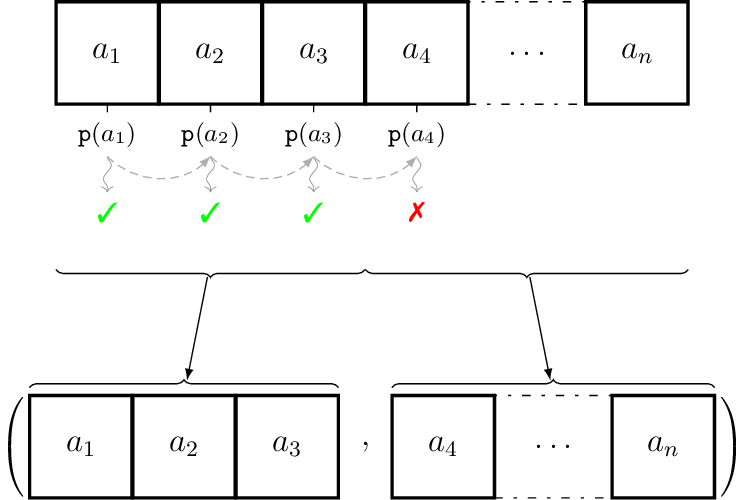
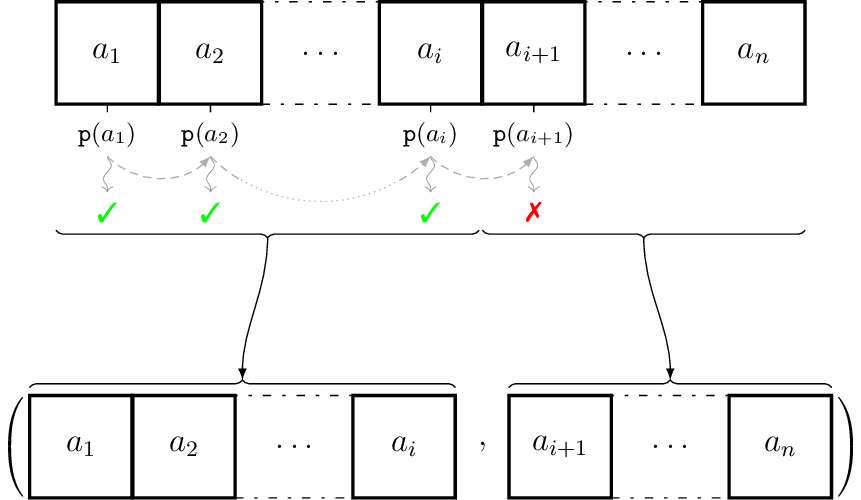
smooth brace to brace

diff --git a/src/images/span.tex b/src/images/span.tex
@@ -1,39 +1,41 @@
 \input{_header.tex}
 
 \matrix (A) [collection, name prefix=a] {
-    \node (1)   {$a_1$}; &
-    \node (2)   {$a_2$}; &
-    \node (3)   {$a_3$}; &
-    \node (4)   {$a_4$}; &
-    \ellipsis            &
-    \node (n)   {$a_n$}; \\
+    \node (1)   {$a_1$};     &
+    \node (2)   {$a_2$};     &
+    \ellipsis                &
+    \node (i)   {$a_i$};     &
+    \node (i+1) {$a_{i+1}$}; &
+    \ellipsis                &
+    \node (n)   {$a_n$};     \\
 };
 
 \foreach \i/\b/\a in {
   1/\true/below,
   2/\true/below,
-  3/\true/below,
-  4/\false/below}
+  i/\true/below,
+  i+1/\false/below}
 {
   \node (pa\i) [predicate, below=1mm of a\i, pin={[function result, pin position=\a] \b}] {$\texttt{p}(a_{\i})$};
   \draw (a\i) -- (pa\i);
 }
 
 \draw (pa1.south) [iteration] to (pa2.south);
-\draw (pa2.south) [iteration] to (pa3.south);
-\draw (pa3.south) [iteration] to (pa4.south);
+\draw (pa2.south) [iteration, middotted] to (pai.south);
+\draw (pai.south) [iteration] to (pai+1.south);
 
 \matrix [collection, left delimiter=(, right delimiter=), below of=A, name prefix=b, node distance=5cm] {
   \node (1)   {$a_1$};     &
   \node (2)   {$a_2$};     &
-  \node (3)   {$a_3$};     &
+  \ellipsis                &
+  \node (i)   {$a_i$};     &
   \tuplecomma              &
-  \node (4)   {$a_4$};     &
+  \node (i+1) {$a_{i+1}$}; &
   \ellipsis                &
   \node (n)   {$a_n$};     \\
 };
 
-\bracetobrace{[yshift=-2cm] a1.south west}{[yshift=-2cm] a3.south east}{b1.north west}{b3.north east}
-\bracetobrace{[yshift=-2cm] a4.south west}{[yshift=-2cm] an.south east}{b4.north west}{bn.north east}
+\bracetobrace{[yshift=-15mm] a1.south west}{[xshift=-1pt, yshift=-15mm] ai.south east}{b1.north west}{bi.north east}
+\bracetobrace{[yshift=-15mm] ai+1.south west}{[yshift=-15mm] an.south east}{bi+1.north west}{bn.north east}
 
 \input{_footer.tex}

diff --git a/src/images/_style.tex b/src/images/_style.tex
@@ -155,7 +155,7 @@
   \coordinate (d) at (#4);
   \draw [bottombrace] (a) -- coordinate (e) (b);
   \draw [topbrace] (c) -- coordinate (f) (d);
-  \draw [from brace, to brace, arrow] (e) -- (f);
+  \draw [from brace, to brace, smooth, arrow] (e) to (f);
 }
 
 \newcommand{\toppointer}[2] {
